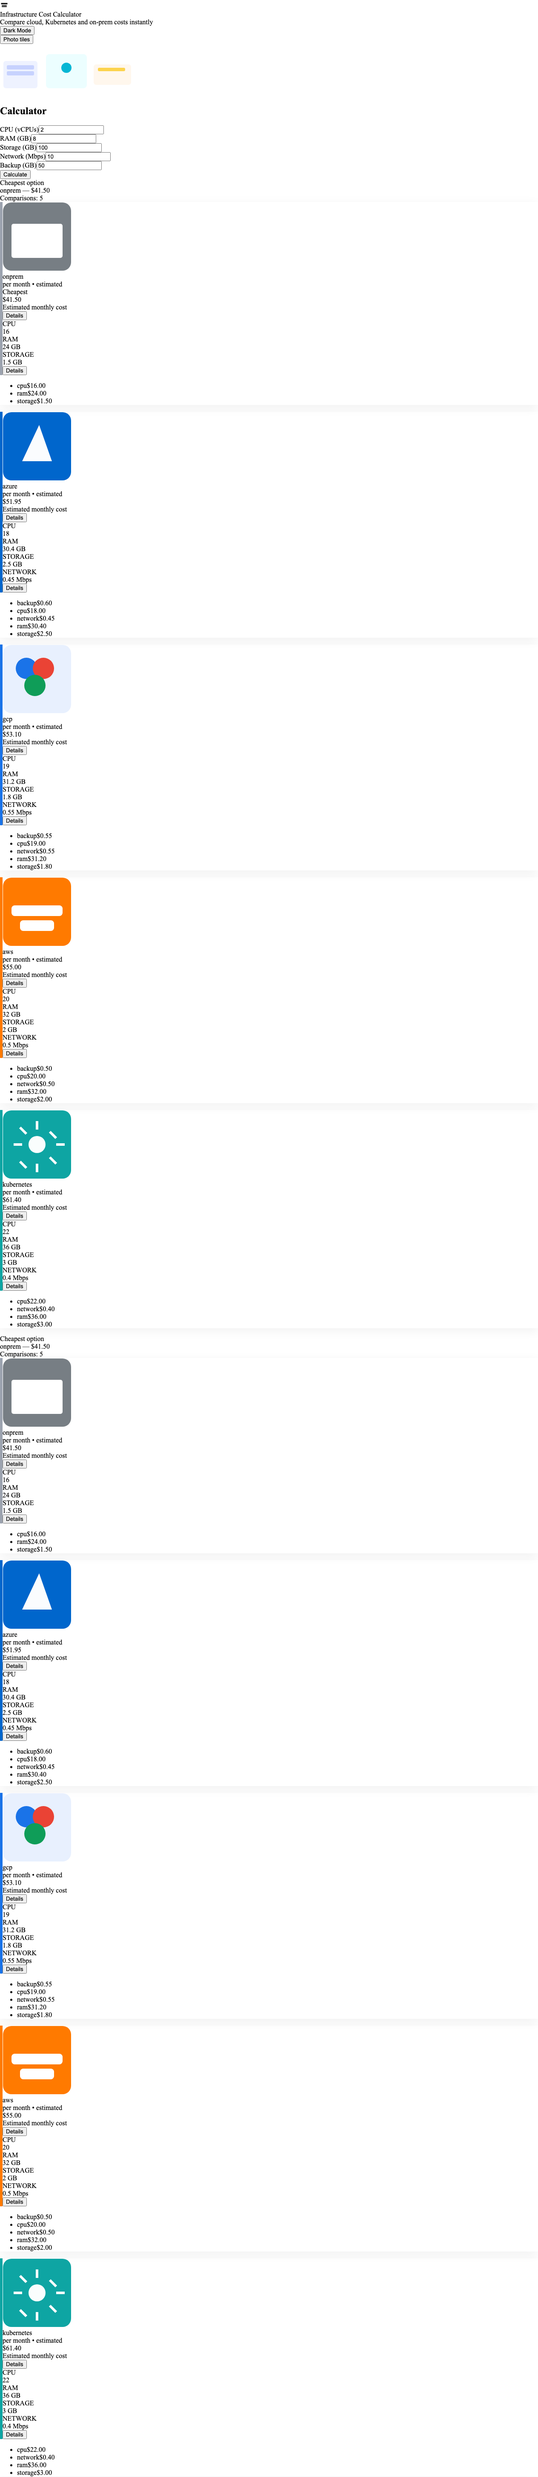
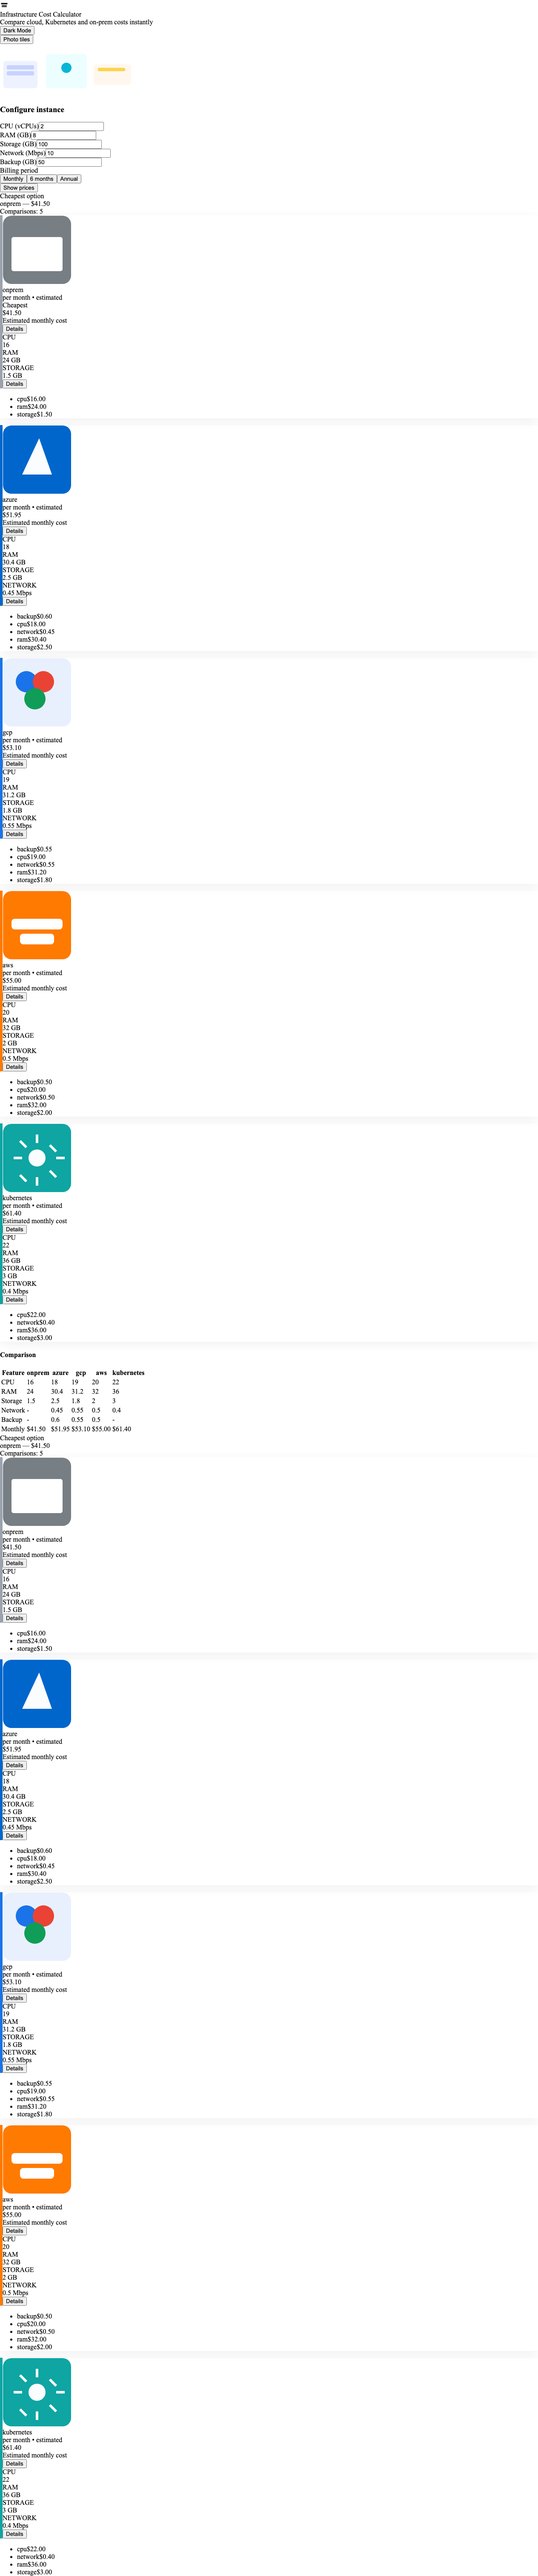
feat(ui): uCalc-style calculator layout — options panel, pricing table, tile row, styles, tests

Changed region(s): [[0.0, 0.0, 0.1851, 1.0], [0.1851, 0.0, 0.216, 0.0311]]

diff --git a/frontend/app/page.tsx b/frontend/app/page.tsx
@@ -3,6 +3,8 @@ import React, { useState } from "react";
 import InputField from "../components/InputField";
 import DarkModeToggle from "../components/DarkModeToggle";
 import ProviderCard from "../components/ProviderCard";
+import OptionsPanel from "../components/OptionsPanel";
+import PricingTable from "../components/PricingTable";
 
 interface CostResult {
   provider: string;
@@ -22,6 +24,7 @@ export default function Home() {
   const [results, setResults] = useState<CostResult[]>([]);
   const [loading, setLoading] = useState(false);
   const [tileMode, setTileMode] = useState<'illustration' | 'photo'>('illustration');
+  const [period, setPeriod] = useState<'monthly'|'6mo'|'annual'>('monthly');
 
   const API_BASE = process.env.NEXT_PUBLIC_API_URL || "http://127.0.0.1:5001";
 
@@ -74,22 +77,8 @@ export default function Home() {
       </div>
 
       <div className="grid grid-cols-1 md:grid-cols-3 gap-6">
-        <div className="md:col-span-1 calculator-panel">
-          <h2 className="text-lg font-medium mb-3">Calculator</h2>
-          <div className="grid grid-cols-1 gap-3">
-            <InputField label="CPU (vCPUs)" value={cpu} onChange={setCpu} />
-            <InputField label="RAM (GB)" value={ram} onChange={setRam} />
-            <InputField label="Storage (GB)" value={storage} onChange={setStorage} />
-            <InputField label="Network (Mbps)" value={network} onChange={setNetwork} />
-            <InputField label="Backup (GB)" value={backup} onChange={setBackup} />
-          </div>
-          <button
-            onClick={handleCalculate}
-            data-testid="calculate-btn"
-            className="mt-4 w-full btn-primary py-3 text-lg"
-          >
-            {loading ? "Calculating..." : "Calculate"}
-          </button>
+        <div className="md:col-span-1">
+          <OptionsPanel cpu={cpu} ram={ram} storage={storage} network={network} backup={backup} setCpu={setCpu} setRam={setRam} setStorage={setStorage} setNetwork={setNetwork} setBackup={setBackup} period={period} setPeriod={(p) => setPeriod(p as any)} onCalculate={handleCalculate} loading={loading} />
         </div>
 
         <div className="md:col-span-2">
@@ -103,13 +92,15 @@ export default function Home() {
                 <div className="text-sm text-gray-400">Comparisons: {results.length}</div>
               </div>
 
-              <div className="grid grid-cols-1 md:grid-cols-2 gap-4">
+              <div className="flex gap-4 overflow-x-auto hide-scrollbar py-2">
                 {results.map((r, idx) => (
-                  <div key={idx}>
-                    <ProviderCard provider={r.provider} total={r.total} currency={r.currency} breakdown={r.breakdown} cheapest={idx === 0} imageMode={tileMode} />
+                  <div key={idx} className="min-w-[280px]">
+                    <ProviderCard provider={r.provider} total={Math.round(r.total * 100) / 100} currency={r.currency} breakdown={r.breakdown} cheapest={idx === 0} imageMode={tileMode} />
                   </div>
                 ))}
               </div>
+
+              <PricingTable results={results} multiplier={period === 'monthly' ? 1 : period === '6mo' ? 0.9 : 0.8} />
             </>
           ) : (
             <div className="text-sm text-gray-500">No results yet — enter values and press Calculate</div>

diff --git a/frontend/components/OptionsPanel.tsx b/frontend/components/OptionsPanel.tsx
@@ -1,0 +1,50 @@
+"use client";
+import React from 'react';
+import InputField from './InputField';
+
+interface Props {
+  cpu: number;
+  ram: number;
+  storage: number;
+  network: number;
+  backup: number;
+  setCpu: (n: number) => void;
+  setRam: (n: number) => void;
+  setStorage: (n: number) => void;
+  setNetwork: (n: number) => void;
+  setBackup: (n: number) => void;
+  period: string;
+  setPeriod: (p: string) => void;
+  onCalculate: () => void;
+  loading: boolean;
+}
+
+const OptionsPanel: React.FC<Props> = ({ cpu, ram, storage, network, backup, setCpu, setRam, setStorage, setNetwork, setBackup, period, setPeriod, onCalculate, loading }) => {
+  return (
+    <div className="calculator-panel card">
+      <h3 className="text-lg font-semibold mb-3">Configure instance</h3>
+      <div className="grid gap-3">
+        <InputField label="CPU (vCPUs)" value={cpu} onChange={setCpu} />
+        <InputField label="RAM (GB)" value={ram} onChange={setRam} />
+        <InputField label="Storage (GB)" value={storage} onChange={setStorage} />
+        <InputField label="Network (Mbps)" value={network} onChange={setNetwork} />
+        <InputField label="Backup (GB)" value={backup} onChange={setBackup} />
+      </div>
+
+      <div className="mt-4">
+        <div className="text-sm text-gray-500 mb-2">Billing period</div>
+        <div className="flex gap-2">
+          <button onClick={() => setPeriod('monthly')} className={`px-3 py-1 rounded ${period === 'monthly' ? 'bg-indigo-600 text-white' : 'bg-white/6'}`}>Monthly</button>
+          <button onClick={() => setPeriod('6mo')} className={`px-3 py-1 rounded ${period === '6mo' ? 'bg-indigo-600 text-white' : 'bg-white/6'}`}>6 months</button>
+          <button onClick={() => setPeriod('annual')} className={`px-3 py-1 rounded ${period === 'annual' ? 'bg-indigo-600 text-white' : 'bg-white/6'}`}>Annual</button>
+        </div>
+      </div>
+
+      <button data-testid="calculate-btn" onClick={onCalculate} disabled={loading} className="mt-6 w-full btn-primary py-3 text-lg">
+        {loading ? 'Calculating...' : 'Show prices'}
+      </button>
+    </div>
+  );
+};
+
+export default OptionsPanel;

diff --git a/frontend/components/PricingTable.tsx b/frontend/components/PricingTable.tsx
@@ -1,0 +1,50 @@
+"use client";
+import React from 'react';
+
+interface Result {
+  provider: string;
+  total: number;
+  currency?: string;
+  breakdown?: { [k: string]: number };
+}
+
+interface Props { results: Result[]; multiplier?: number }
+
+const PricingTable: React.FC<Props> = ({ results, multiplier = 1 }) => {
+  const rows = ['CPU','RAM','Storage','Network','Backup','Monthly'];
+  return (
+    <div className="card p-4 mt-6">
+      <h4 className="text-sm text-gray-600 mb-3">Comparison</h4>
+      <div className="overflow-x-auto">
+        <table className="w-full table-auto pricing-table">
+          <thead>
+            <tr className="text-left text-sm text-gray-500">
+              <th className="pr-6">Feature</th>
+              {results.map((r) => (
+                <th key={r.provider} className="pr-6">{r.provider}</th>
+              ))}
+            </tr>
+          </thead>
+          <tbody>
+            {rows.map((row) => (
+              <tr key={row} className="border-t">
+                <td className="py-3 text-sm font-medium">{row}</td>
+                {results.map((r) => (
+                  <td key={r.provider + row} className="py-3 text-sm">
+                    {row === 'Monthly' ? (
+                      <span className="font-semibold">{new Intl.NumberFormat(undefined, {style:'currency', currency: r.currency || 'USD'}).format(r.total * multiplier)}</span>
+                    ) : (
+                      <span className="text-gray-600">{r.breakdown && r.breakdown[row.toLowerCase()] !== undefined ? r.breakdown[row.toLowerCase()] : '-'}</span>
+                    )}
+                  </td>
+                ))}
+              </tr>
+            ))}
+          </tbody>
+        </table>
+      </div>
+    </div>
+  );
+};
+
+export default PricingTable;

diff --git a/frontend/components/ProviderCard.tsx b/frontend/components/ProviderCard.tsx
@@ -77,7 +77,13 @@ const ProviderCard: React.FC<Props> = ({ provider, total, currency, breakdown, c
         <div className="flex items-center gap-4">
           <div className="w-16 h-16 rounded-full bg-white shadow-md flex items-center justify-center text-xl relative" style={{border: '1px solid rgba(255,255,255,0.18)'}}>
             {imageMode === 'photo' ? (
-              <img src={`/assets/photo_${p}.svg`} alt="" aria-hidden className="photo-bg-img absolute inset-0 w-full h-full object-cover rounded-full opacity-90" />
+              <img
+                src={`/assets/photos/photo_${p}.jpg`}
+                alt=""
+                aria-hidden
+                className="photo-bg-img absolute inset-0 w-full h-full object-cover rounded-full opacity-90"
+                onError={(e) => { (e.target as HTMLImageElement).src = `/assets/photo_${p}.svg`; }}
+              />
             ) : null}
             <picture>
               <source srcSet={`/assets/${p}.svg`} type="image/svg+xml" />

diff --git a/frontend/e2e/app.spec.ts b/frontend/e2e/app.spec.ts
@@ -50,6 +50,16 @@ test('calculate shows non-zero azure and gcp totals', async ({ page, baseURL }) 
   const photoImgs = page.locator('img.photo-bg-img');
   expect(await photoImgs.count()).toBeGreaterThanOrEqual(1);
 
+  // Check billing period selector exists and switch to annual
+  await page.getByRole('button', { name: 'Annual' }).click();
+  await page.waitForTimeout(200);
+
+  // Ensure the comparison table is visible and has a Monthly/price row
+  const table = page.locator('.pricing-table');
+  await expect(table).toBeVisible();
+  const monthlyRow = table.locator('tr').filter({ hasText: 'Monthly' }).first();
+  await expect(monthlyRow).toBeVisible();
+
   // Ensure pricing-stat chips and Details CTA exist in at least one card
   const firstStat = page.locator('[data-testid^="card-"]').first().locator('.stat-chip').first();
   await expect(firstStat).toBeVisible({ timeout: 3000 });

diff --git a/frontend/styles/globals.css b/frontend/styles/globals.css
@@ -161,3 +161,18 @@ body::before {
 .card.photo-mode { background: linear-gradient(180deg, rgba(0,0,0,0.02), rgba(255,255,255,0.9)); }
 }
 
+/* pricing layout helpers */
+.hide-scrollbar { -ms-overflow-style: none; scrollbar-width: none; }
+.hide-scrollbar::-webkit-scrollbar { display: none; }
+
+.pricing-table th, .pricing-table td { padding-right: 1rem; padding-left: 0.25rem; }
+.pricing-table tr td { vertical-align: middle; }
+
+.plan-feature { color: var(--muted); font-size: 0.92rem; }
+
+.min-w-[280px] { min-width: 280px; }
+
+/* subtle separation for table area */
+.pricing-table tr:nth-child(odd) { background: transparent; }
+
+
